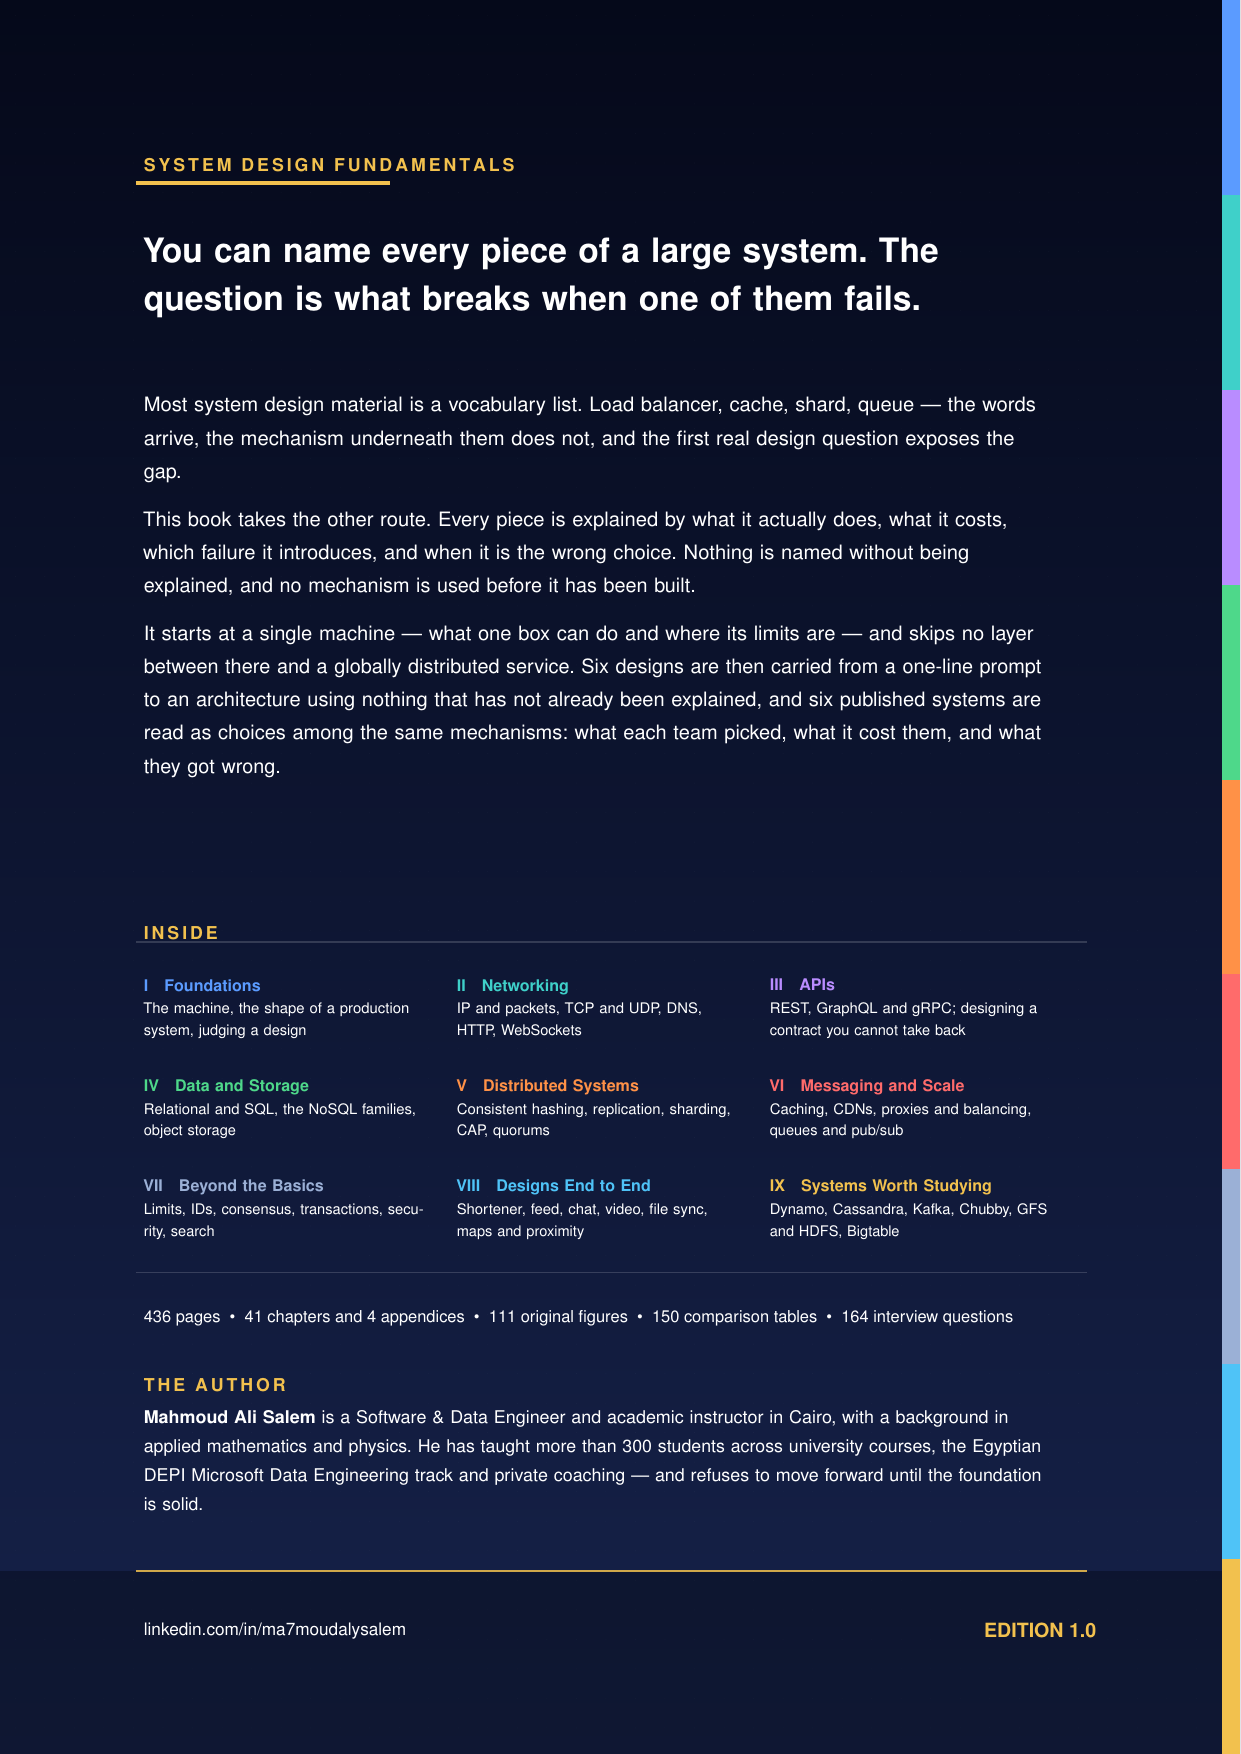
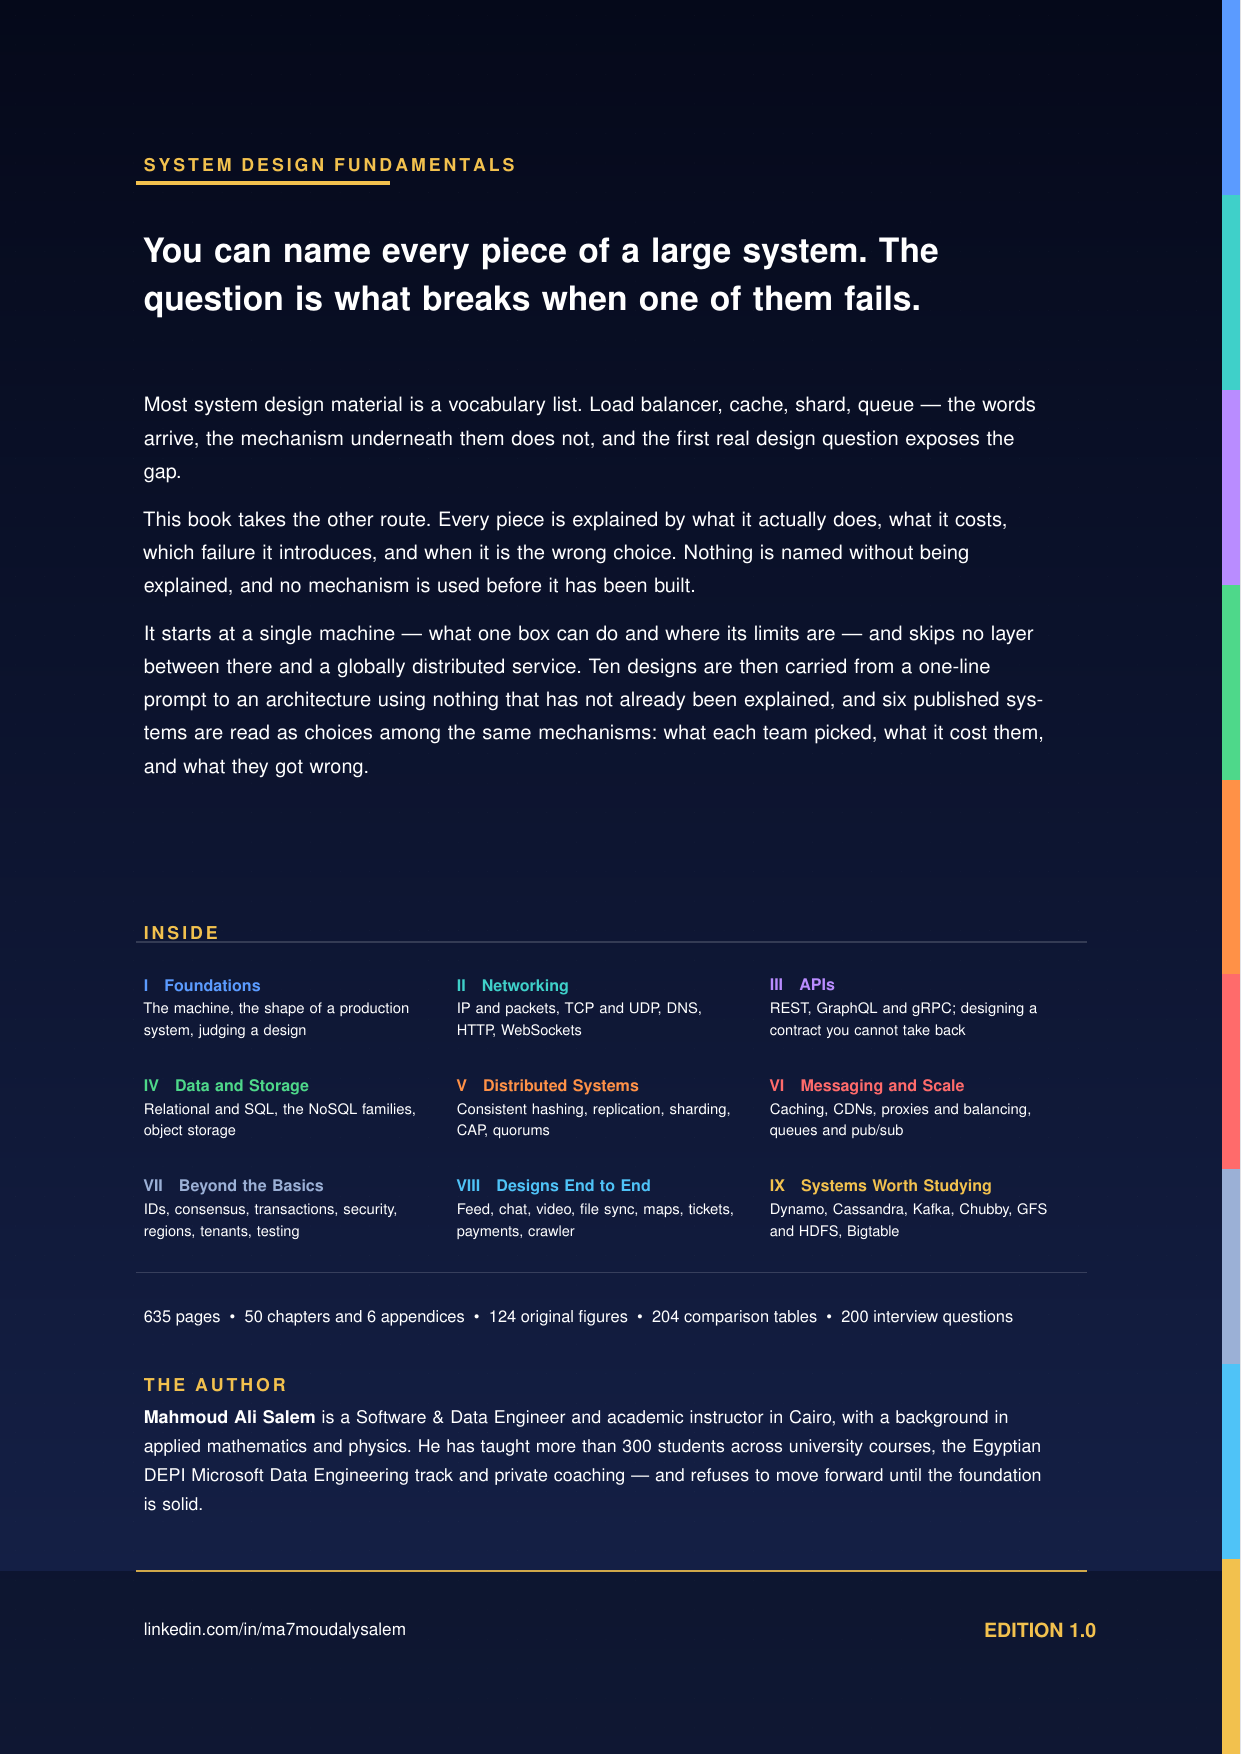
Describe the finished book: 50 chapters, final numbering, new back cover

diff --git a/README.md b/README.md
@@ -44,7 +44,7 @@ Most material tells you what a component is for. This book tells you what it doe
 | You are... | This book gives you... |
 |---|---|
 | A developer who has only built single-server apps | A patient start from one machine, with no assumed distributed-systems background |
-| Someone preparing for system design interviews | 164 interview questions with model answers, and six designs carried end to end |
+| Someone preparing for system design interviews | 200 interview questions with model answers, ten designs carried end to end, and twelve more to attempt yourself |
 | A backend engineer who knows the words | The mechanisms underneath them, and the failure each one introduces |
 | A team lead choosing an architecture | The trade-off framing — CAP and PACELC, consistency models, and when each mechanism is wrong |
 | A data or platform engineer | Replication, sharding, queues, stream processing, and the papers that defined them |
@@ -55,7 +55,7 @@ Most material tells you what a component is for. This book tells you what it doe
 
 ## 📬 Get the Book
 
-A professional 635-page PDF: 111 original diagrams, 150 comparison tables, annotated code and configuration, a full glossary, and an index of every interview question with the page that answers it.
+A professional 635-page PDF: 124 original diagrams, 204 comparison tables, annotated code and configuration, a full glossary, and an index of every interview question with the page that answers it.
 
 [![Contact on LinkedIn](https://img.shields.io/badge/Request%20the%20PDF-LinkedIn-0077B5?style=for-the-badge&logo=linkedin)](https://linkedin.com/in/ma7moudalysalem)
 
@@ -63,7 +63,7 @@ A professional 635-page PDF: 111 original diagrams, 150 comparison tables, annot
 
 ---
 
-## What's Inside — 41 Chapters
+## What's Inside — 50 Chapters
 
 <details>
 <summary><strong>Part I — Foundations</strong></summary>
@@ -161,22 +161,31 @@ A professional 635-page PDF: 111 original diagrams, 150 comparison tables, annot
 | 27. Security and Authentication | TLS, OAuth 2.0 and OIDC, JWTs and their sharp edges, secrets, common attack surfaces |
 | 28. Search and Inverted Indexes | Tokenisation, the inverted index, relevance scoring, distributed search |
 | 29. Batch and Stream Processing | MapReduce to modern engines, windows, watermarks, event time vs processing time |
+| 30. Service Architecture | Service discovery, the API gateway, call chains, CQRS and event sourcing |
+| 31. Analytical Storage | OLTP vs OLAP, column-oriented storage, compression, warehouses and lakes |
+| 32. Multi-Region and Disaster Recovery | RTO and RPO, failure domains, the four postures, failover step by step |
+| 33. Multi-Tenancy and Isolation | Silo, bridge and pool; noisy neighbours; sharding by tenant |
+| 34. Testing Distributed Systems | Fault injection, history checking, chaos experiments, load tests that mean something |
 
 </details>
 
 <details>
 <summary><strong>Part VIII — Designs End to End</strong></summary>
 
-> Six designs carried from a one-line prompt to a full architecture, using nothing that has not already been explained.
+> Ten designs carried from a one-line prompt to a full architecture, using nothing that has not already been explained.
 
 | Chapter | What You'll Design |
 |---|---|
-| 30. URL Shortener | Key generation, redirect path, analytics, and the read-heavy shape |
-| 31. News Feed | Fan-out on write vs read, the celebrity problem, ranking and pagination |
-| 32. Group Chat System | Connection state, delivery and read receipts, presence, message history |
-| 33. Video Platform | Upload and transcoding pipelines, adaptive bitrate streaming, CDN strategy |
-| 34. File Sync and Storage | Chunking, deduplication, delta sync, conflict resolution across devices |
-| 35. Maps and Proximity Search | Geohashing and quadtrees, nearest-neighbour queries, routing at scale |
+| 35. URL Shortener | Key generation, redirect path, analytics, and the read-heavy shape |
+| 36. News Feed | Fan-out on write vs read, the celebrity problem, ranking and pagination |
+| 37. Group Chat System | Connection state, delivery and read receipts, presence, message history |
+| 38. Video Platform | Upload and transcoding pipelines, adaptive bitrate streaming, CDN strategy |
+| 39. File Sync and Storage | Chunking, deduplication, delta sync, conflict resolution across devices |
+| 40. Maps and Proximity Search | Geohashing and quadtrees, nearest-neighbour queries, routing at scale |
+| 41. Ticket Sale | Contention on a fixed supply: an admission gate, seat holds, and paying exactly once |
+| 42. Payment System | A payment as a state machine, two idempotency keys, a double-entry ledger, reconciliation |
+| 43. Notification System | Push, email and SMS through providers that rate-limit; priority lanes; duplicates vs loss |
+| 44. Web Crawler | The frontier, politeness, a Bloom filter for seen URLs, freshness against coverage |
 
 </details>
 
@@ -187,12 +196,12 @@ A professional 635-page PDF: 111 original diagrams, 150 comparison tables, annot
 
 | Chapter | What You'll Learn |
 |---|---|
-| 36. Dynamo | Consistent hashing and quorums in production, and the price of always-writable |
-| 37. Cassandra | What it kept from Dynamo, what it took from Bigtable, and the LSM tree underneath |
-| 38. Kafka | The log as a primitive: partitions, offsets, replication, exactly-once semantics |
-| 39. Chubby | A lock service as the coordination backbone, and the lessons Google published about it |
-| 40. GFS and HDFS | Single-master design, chunk servers, and the failure model they were built for |
-| 41. Bigtable | SSTables, tablets, compaction, and the lineage running to every wide-column store since |
+| 45. Dynamo | Consistent hashing and quorums in production, and the price of always-writable |
+| 46. Cassandra | What it kept from Dynamo, what it took from Bigtable, and the LSM tree underneath |
+| 47. Kafka | The log as a primitive: partitions, offsets, replication, exactly-once semantics |
+| 48. Chubby | A lock service as the coordination backbone, and the lessons Google published about it |
+| 49. GFS and HDFS | Single-master design, chunk servers, and the failure model they were built for |
+| 50. Bigtable | SSTables, tablets, compaction, and the lineage running to every wide-column store since |
 
 </details>
 
